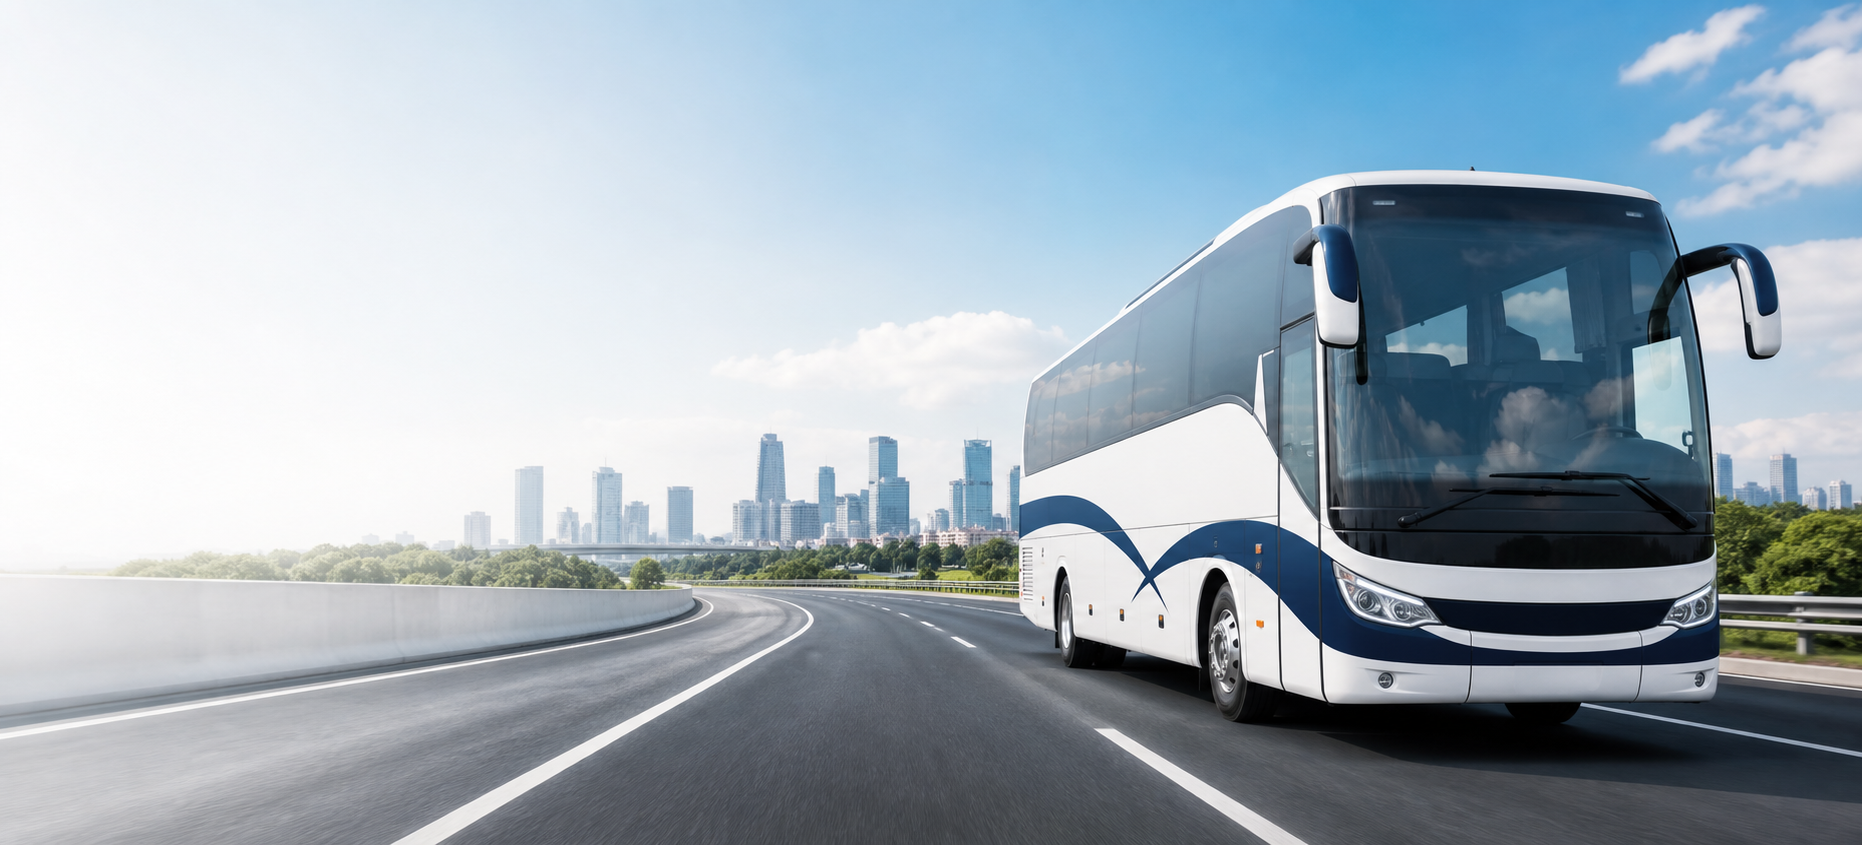
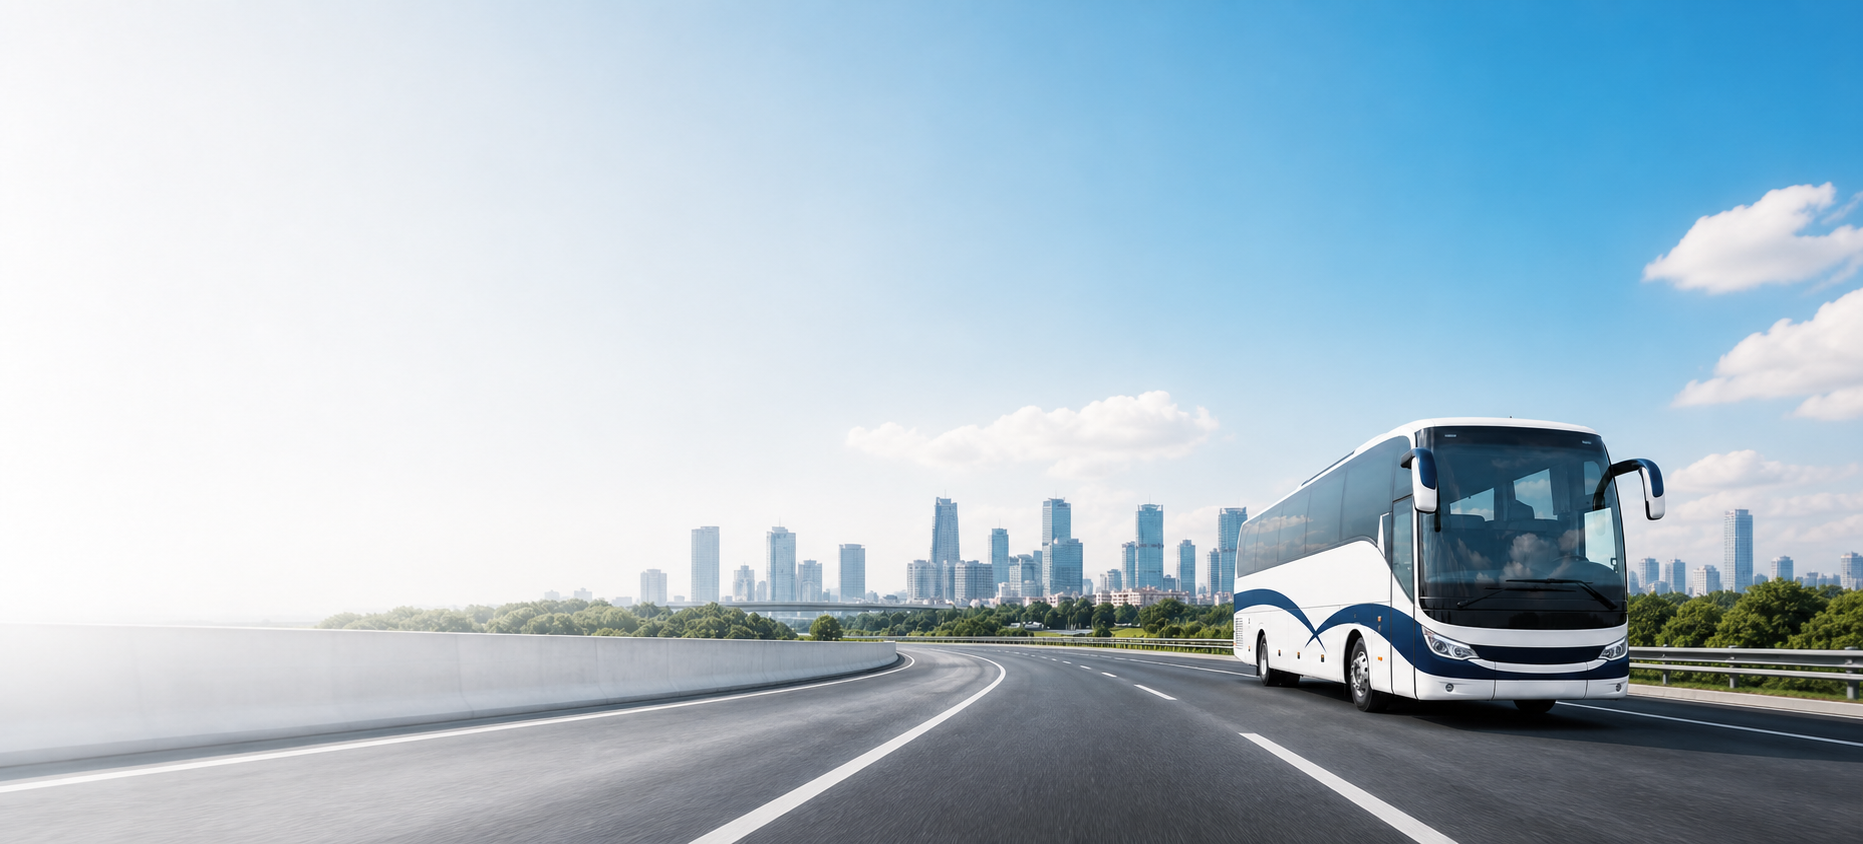
Match travel tickets page to reference

diff --git a/public-site/billets/index.html b/public-site/billets/index.html
@@ -17,10 +17,10 @@
     :root{--blue:#061f68;--blue-2:#0b45aa;--gold:#ffc35c;--ink:#08122e;--muted:#566176;--line:#dfe7f3;--soft:#f4f8ff;--green:#04b98b}
     *{box-sizing:border-box}body{margin:0;font-family:Inter,Arial,sans-serif;color:var(--ink);background:#f8fbff}a{color:inherit}.shell{width:min(1420px,calc(100% - 76px));margin:auto}
     .topbar{height:82px;background:#fff;border-bottom:1px solid var(--line)}.nav{height:100%;display:flex;align-items:center;gap:36px}.brand{display:flex;align-items:center;gap:10px;text-decoration:none;margin-right:auto;color:var(--blue)}.mark{position:relative;width:48px;height:43px;flex:none}.mark:before{content:"";position:absolute;width:14px;height:14px;border-radius:50%;background:var(--blue);left:0;top:14px}.mark:after{content:"";position:absolute;width:19px;height:39px;border-radius:16px;background:var(--gold);left:24px;top:2px;transform:rotate(31deg)}.word{font:700 38px/1 Alkatra,cursive}.menu{display:flex;align-items:center;height:100%;gap:27px;font-size:14px;font-weight:700}.menu a{height:100%;display:flex;align-items:center;text-decoration:none;position:relative}.menu a.active{color:var(--blue)}.menu a.active:after{content:"";position:absolute;left:0;right:0;bottom:0;height:3px;background:var(--blue)}.actions{margin-left:auto;display:flex;gap:12px}.btn{min-height:42px;padding:0 22px;border-radius:10px;display:inline-flex;align-items:center;justify-content:center;gap:10px;text-decoration:none;font-size:14px;font-weight:800;border:1px solid var(--blue);cursor:pointer}.outline{color:var(--blue);background:#fff}.primary{color:#fff;background:var(--blue)}
-    .hero{height:315px;position:relative;overflow:hidden;background:#eef7ff}.hero:before{content:"";position:absolute;inset:0;background:linear-gradient(90deg,#f8fbff 0%,rgba(248,251,255,.97) 28%,rgba(248,251,255,.2) 58%,transparent 100%);z-index:1}.hero-image{position:absolute;inset:0;background:url("/travel-bus-hero.png") center/cover no-repeat}.hero-inner{height:100%;position:relative;z-index:2;display:flex;align-items:center}.hero-copy{width:550px}.eyebrow{display:inline-flex;padding:8px 14px;border-radius:999px;background:#e9f1ff;color:var(--blue);font-size:12px;font-weight:800}.hero h1{margin:15px 0 10px;font-size:50px;line-height:1.02;letter-spacing:-.04em}.hero h1 span{color:var(--blue)}.hero p{max-width:520px;margin:0;color:#354057;font-size:16px;line-height:1.65}.trust-row{display:flex;gap:38px;margin-top:20px}.trust{display:grid;grid-template-columns:44px 1fr;gap:12px;align-items:center}.trust-icon{width:44px;height:44px;border-radius:50%;display:grid;place-items:center;background:#eaf2ff;color:var(--blue);font-size:20px}.trust:nth-child(2) .trust-icon{background:#e5f8f2;color:var(--green)}.trust:nth-child(3) .trust-icon{background:#f1ebff;color:#7442dd}.trust strong{display:block;font-size:13px}.trust small{font-size:11px;color:var(--muted)}
-    .booking-wrap{margin-top:-10px;position:relative;z-index:3}.booking{padding:20px 28px;border:1px solid var(--line);border-radius:16px;background:#fff;box-shadow:0 14px 32px rgba(6,31,104,.08)}.booking-title{display:flex;align-items:center;gap:14px;margin-bottom:17px}.booking-title span{width:42px;height:42px;border-radius:10px;display:grid;place-items:center;background:var(--blue);color:#fff}.booking-title h2{margin:0 0 2px;font-size:20px}.booking-title p{margin:0;color:var(--muted);font-size:13px}.search-grid{display:grid;grid-template-columns:1.18fr 1fr .9fr 165px 230px;gap:18px;align-items:end}.field label{display:block;margin-bottom:8px;font-size:12px;font-weight:700}.control{width:100%;height:46px;border:1px solid #cfd9ea;border-radius:9px;background:#fff;padding:0 14px;color:var(--ink);font:600 13px Inter,Arial,sans-serif}.search-btn{height:46px;border:0}.booking-note{min-height:74px;border-left:1px dashed #ccd7e8;padding:13px 0 0 22px;display:flex;gap:12px;color:#32405a;font-size:12px;line-height:1.5}.booking-note i{color:#0755d9;font-size:16px;margin-top:2px}
+    .hero{height:380px;position:relative;overflow:hidden;background:#eef7ff}.hero:before{content:"";position:absolute;inset:0;background:linear-gradient(90deg,#f8fbff 0%,rgba(248,251,255,.97) 29%,rgba(248,251,255,.35) 54%,transparent 76%);z-index:1}.hero-image{position:absolute;inset:0;background:url("/travel-bus-hero.png") center/cover no-repeat}.hero-inner{height:100%;position:relative;z-index:2;display:flex;align-items:center}.hero-copy{width:550px}.eyebrow{display:inline-flex;padding:8px 14px;border-radius:999px;background:#e9f1ff;color:var(--blue);font-size:12px;font-weight:800}.hero h1{margin:15px 0 10px;font-size:50px;line-height:1.02;letter-spacing:-.04em}.hero h1 span{color:var(--blue)}.hero p{max-width:520px;margin:0;color:#354057;font-size:16px;line-height:1.65}.trust-row{display:flex;gap:38px;margin-top:22px}.trust{display:grid;grid-template-columns:44px 1fr;gap:12px;align-items:center}.trust-icon{width:44px;height:44px;border-radius:50%;display:grid;place-items:center;background:#eaf2ff;color:var(--blue);font-size:20px}.trust:nth-child(2) .trust-icon{background:#e5f8f2;color:var(--green)}.trust:nth-child(3) .trust-icon{background:#f1ebff;color:#7442dd}.trust strong{display:block;font-size:13px}.trust small{font-size:11px;color:var(--muted)}
+    .booking-wrap{margin-top:-10px;position:relative;z-index:3}.booking{min-height:198px;padding:20px 28px;border:1px solid var(--line);border-radius:16px;background:#fff;box-shadow:0 14px 32px rgba(6,31,104,.08)}.booking-title{display:flex;align-items:center;gap:14px;margin-bottom:19px}.booking-title span{width:42px;height:42px;border-radius:10px;display:grid;place-items:center;background:var(--blue);color:#fff}.booking-title h2{margin:0 0 2px;font-size:20px}.booking-title p{margin:0;color:var(--muted);font-size:13px}.search-grid{display:grid;grid-template-columns:1.18fr 1fr .9fr 165px 230px;gap:18px;align-items:end}.field label{display:block;margin-bottom:8px;font-size:12px;font-weight:700}.control{width:100%;height:48px;border:1px solid #cfd9ea;border-radius:9px;background:#fff;padding:0 14px;color:var(--ink);font:600 13px Inter,Arial,sans-serif}.search-btn{height:48px;border:0}.booking-note{min-height:76px;border-left:1px dashed #ccd7e8;padding:13px 0 0 22px;display:flex;gap:12px;color:#32405a;font-size:12px;line-height:1.5}.booking-note i{color:#0755d9;font-size:16px;margin-top:2px}
     .results{display:none;margin-top:14px;border:1px solid #cfe0fa;border-radius:12px;padding:16px 20px;background:#f7fbff;align-items:center;gap:18px}.results.show{display:flex}.results-icon{width:45px;height:45px;border-radius:50%;display:grid;place-items:center;background:#e6f0ff;color:var(--blue)}.results-copy{margin-right:auto}.results h3{margin:0 0 4px;font-size:15px}.results p{margin:0;color:var(--muted);font-size:12px}.price{font-size:20px;font-weight:800;color:var(--blue)}
-    .benefits{margin:14px auto;padding:16px 28px;border:1px solid var(--line);border-radius:14px;background:#fff;display:grid;grid-template-columns:220px repeat(4,1fr)}.benefits-title{display:flex;align-items:center;font-size:15px;font-weight:800}.benefit{padding:0 20px;display:grid;grid-template-columns:46px 1fr;gap:12px;align-items:center;border-left:1px solid var(--line)}.benefit-icon{width:42px;height:42px;border-radius:50%;display:grid;place-items:center;background:#eaf2ff;color:var(--blue);font-size:20px}.benefit h3{margin:0 0 4px;font-size:13px}.benefit p{margin:0;color:var(--muted);font-size:11px;line-height:1.45}
+    .benefits{min-height:98px;margin:14px auto;padding:16px 28px;border:1px solid var(--line);border-radius:14px;background:#fff;display:grid;grid-template-columns:220px repeat(4,1fr)}.benefits-title{display:flex;align-items:center;font-size:15px;font-weight:800}.benefit{padding:0 20px;display:grid;grid-template-columns:46px 1fr;gap:12px;align-items:center;border-left:1px solid var(--line)}.benefit-icon{width:42px;height:42px;border-radius:50%;display:grid;place-items:center;background:#eaf2ff;color:var(--blue);font-size:20px}.benefit h3{margin:0 0 4px;font-size:13px}.benefit p{margin:0;color:var(--muted);font-size:11px;line-height:1.45}
     .footer-banner{margin-top:15px;background:var(--blue);color:#fff}.footer-grid{min-height:135px;display:grid;grid-template-columns:1fr 1fr;align-items:center;gap:48px}.footer-block{padding:15px 25px}.footer-block:first-child{border-right:1px solid rgba(255,255,255,.25)}.footer-block h2{margin:0 0 9px;font-size:18px}.footer-block p{margin:0 0 12px;font-size:13px;line-height:1.55}.store-row{display:flex;gap:10px}.store{padding:8px 13px;border:1px solid rgba(255,255,255,.6);border-radius:7px;font-size:12px;font-weight:700}.support-row{display:flex;gap:25px;font-size:14px}.support-row i{margin-right:8px}.whatsapp{color:#20e278}
     @media(max-width:1100px){.menu{display:none}.search-grid{grid-template-columns:1fr 1fr}.booking-note{border-left:0;padding-left:0}.benefits{grid-template-columns:1fr 1fr}.benefits-title{grid-column:1/-1}.benefit{border:0}.hero-copy{width:60%}}
     @media(max-width:680px){.shell{width:min(100% - 30px,620px)}.topbar{height:72px}.actions .outline{display:none}.actions .btn{padding:0 15px;font-size:13px}.hero{height:510px}.hero:before{background:linear-gradient(#f8fbff 0%,rgba(248,251,255,.95) 55%,rgba(248,251,255,.2) 100%)}.hero-image{background-position:65% bottom}.hero-inner{align-items:flex-start;padding-top:32px}.hero-copy{width:100%}.hero h1{font-size:40px}.trust-row{display:grid;grid-template-columns:1fr 1fr;gap:12px}.search-grid{grid-template-columns:1fr}.booking{padding:20px}.results.show{display:grid}.benefits{grid-template-columns:1fr}.benefits-title{grid-column:auto}.benefit{padding:10px 0}.footer-grid{grid-template-columns:1fr}.footer-block:first-child{border-right:0;border-bottom:1px solid rgba(255,255,255,.25)}.support-row{display:grid;gap:10px}}
@@ -29,7 +29,7 @@
 <body>
   <header class="topbar"><div class="shell nav">
     <a class="brand" href="/" aria-label="Accueil TaKo"><span class="mark"></span><span class="word">TaKo</span></a>
-    <nav class="menu"><a href="/">Accueil</a><a href="/about/">À propos</a><a class="active" href="/billets/">Billets de voyage</a><a href="/fonctionnalites/">Fonctionnalités</a><a href="/solutions/">Solutions</a><a href="/#tarifs">Tarifs</a></nav>
+    <nav class="menu"><a href="/">Accueil</a><a href="/about/">À propos</a><a href="/fonctionnalites/">Fonctionnalités</a><a href="/solutions/">Solutions</a><a href="/#tarifs">Tarifs</a><a class="active" href="/billets/">Billets de voyage</a></nav>
     <div class="actions"><a class="btn outline" href="/connexion">Connexion chauffeur</a><a class="btn primary" href="/contact/">Contact us</a></div>
   </div></header>
   <main>

diff --git a/public-site/about/index.html b/public-site/about/index.html
@@ -26,7 +26,7 @@
 <body>
   <header class="topbar"><div class="shell nav">
     <a class="brand" href="/" aria-label="Accueil TaKo"><span class="mark"></span><span class="word">TaKo</span></a>
-    <nav class="menu"><a href="/">Accueil</a><a class="active" href="/about/">À propos</a><a href="/billets/">Billets de voyage</a><a href="/fonctionnalites/">Fonctionnalités</a><a href="/solutions/">Solutions</a><a href="/#tarifs">Tarifs</a></nav>
+    <nav class="menu"><a href="/">Accueil</a><a class="active" href="/about/">À propos</a><a href="/fonctionnalites/">Fonctionnalités</a><a href="/solutions/">Solutions</a><a href="/#tarifs">Tarifs</a><a href="/billets/">Billets de voyage</a></nav>
     <div class="actions"><a class="btn outline" href="https://www.takotransport.com/connexion">Connexion chauffeur</a><a class="btn primary" href="/contact/">Contact us</a></div>
   </div></header>
   <main>

diff --git a/public-site/fonctionnalites/index.html b/public-site/fonctionnalites/index.html
@@ -26,7 +26,7 @@
 <body>
   <header class="topbar"><div class="shell nav">
     <a class="brand" href="/" aria-label="Accueil TaKo"><span class="mark"></span><span class="word">TaKo</span></a>
-    <nav class="menu"><a href="/">Accueil</a><a href="/about/">À propos</a><a href="/billets/">Billets de voyage</a><a class="active" href="/fonctionnalites/">Fonctionnalités</a><a href="/solutions/">Solutions</a><a href="/#tarifs">Tarifs</a></nav>
+    <nav class="menu"><a href="/">Accueil</a><a href="/about/">À propos</a><a class="active" href="/fonctionnalites/">Fonctionnalités</a><a href="/solutions/">Solutions</a><a href="/#tarifs">Tarifs</a><a href="/billets/">Billets de voyage</a></nav>
     <div class="actions"><a class="btn outline" href="/connexion">Connexion chauffeur</a><a class="btn primary" href="/contact/">Contact us</a></div>
   </div></header>
   <main>

diff --git a/public-site/solutions/index.html b/public-site/solutions/index.html
@@ -26,7 +26,7 @@
 <body>
   <header class="topbar"><div class="shell nav">
     <a class="brand" href="/" aria-label="Accueil TaKo"><span class="mark"></span><span class="word">TaKo</span></a>
-    <nav class="menu"><a href="/">Accueil</a><a href="/about/">À propos</a><a href="/billets/">Billets de voyage</a><a href="/fonctionnalites/">Fonctionnalités</a><a class="active" href="/solutions/">Solutions</a><a href="/#tarifs">Tarifs</a></nav>
+    <nav class="menu"><a href="/">Accueil</a><a href="/about/">À propos</a><a href="/fonctionnalites/">Fonctionnalités</a><a class="active" href="/solutions/">Solutions</a><a href="/#tarifs">Tarifs</a><a href="/billets/">Billets de voyage</a></nav>
     <div class="actions"><a class="btn outline" href="/connexion">Connexion chauffeur</a><a class="btn primary" href="/contact/">Contact us</a></div>
   </div></header>
   <main>
